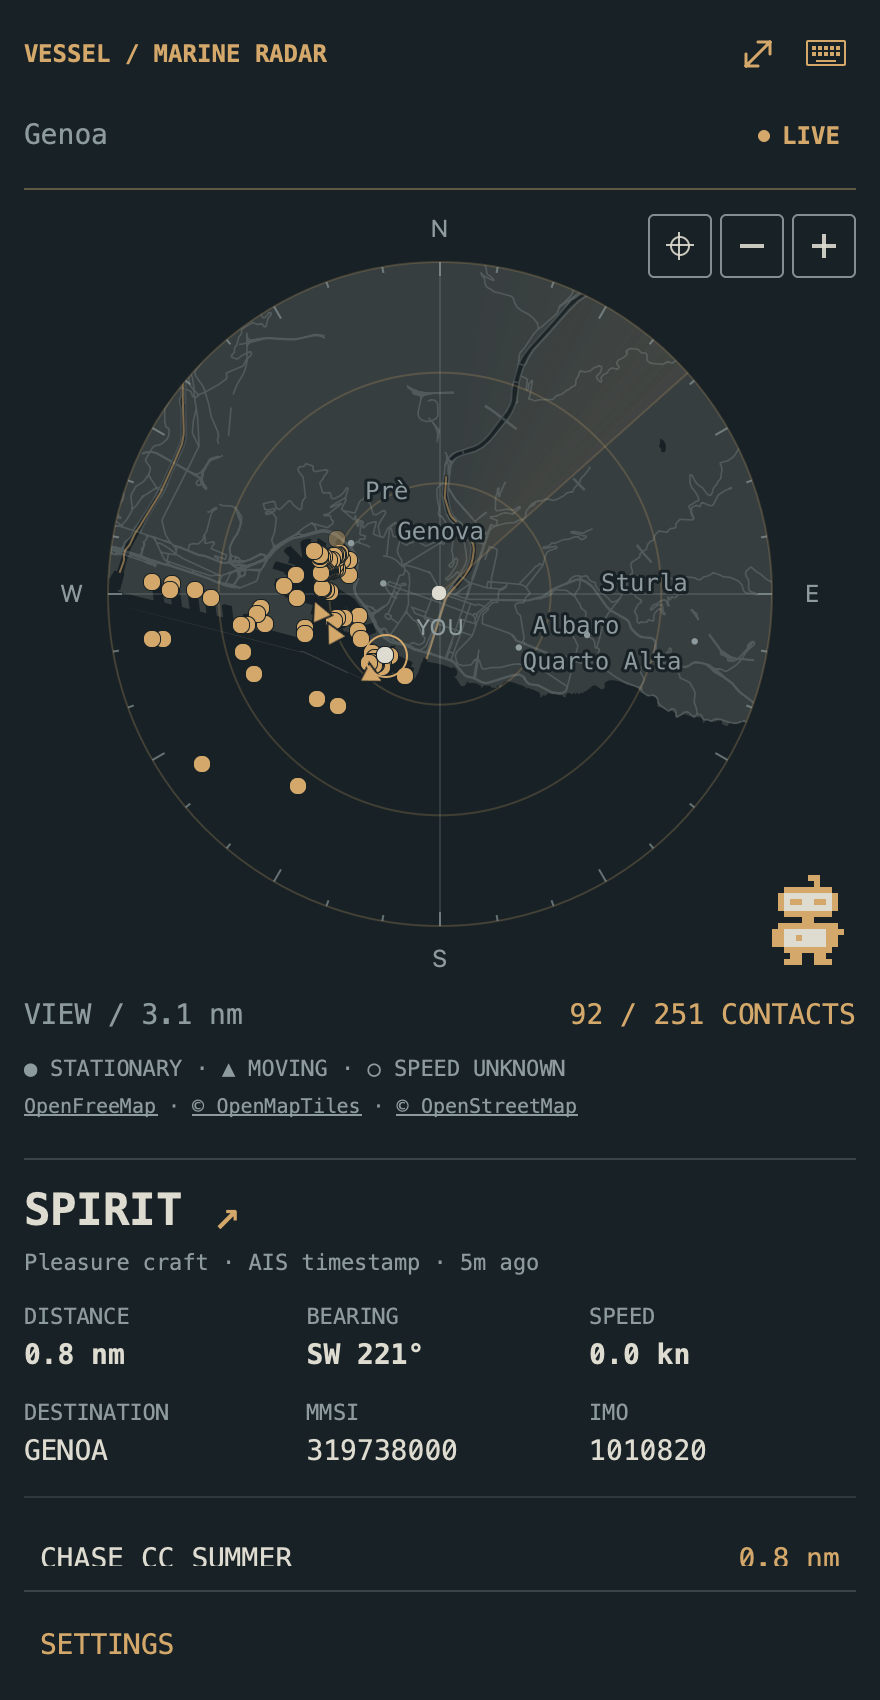
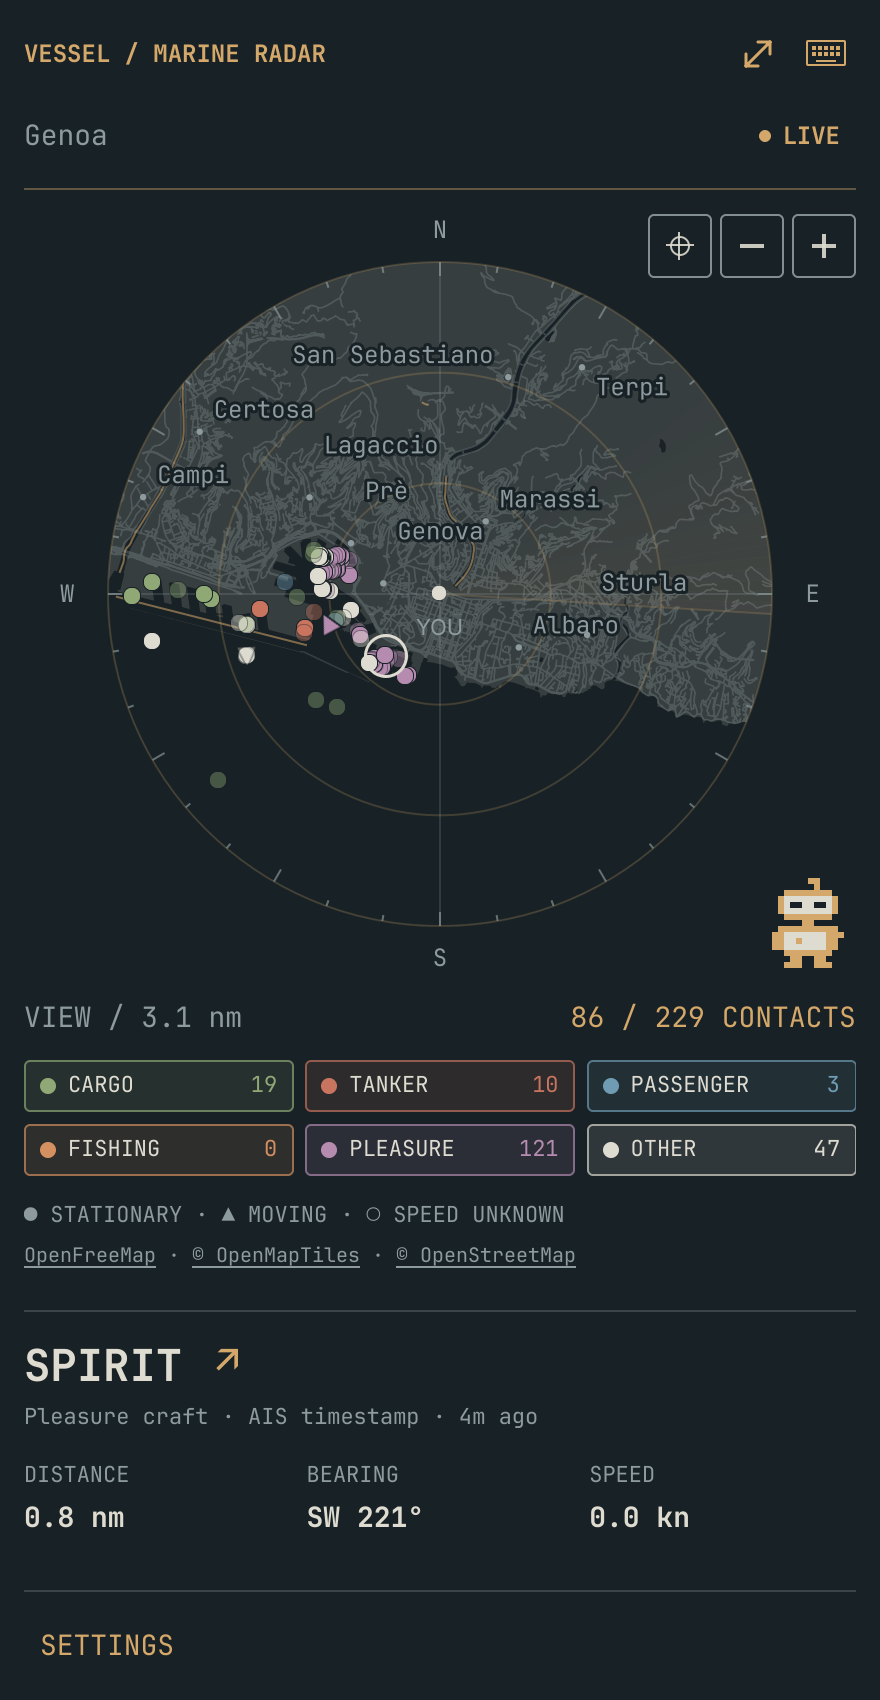
docs: refresh screenshots with type colors, filters and vessel details
Render the expanded and compact previews in both palettes from a real
OpenWaters capture around Genoa on 27 September 2026, with the detailed
OpenFreeMap chart. The layout assertions in the renderer pass.

The renderer now parenthesizes the injected report and basemap, so QML
cannot read them as code blocks, and replaces unique placeholders, so a
vessel name containing "MAP" is left intact. VESSEL_PREVIEW_FONT selects
the font on hosts without Menlo.

diff --git a/tools/render_previews.py b/tools/render_previews.py
@@ -5,6 +5,7 @@ Requires PySide6, VESSEL_PREVIEW_LIVE (receiver snapshot JSON) and
 VESSEL_PREVIEW_DETAIL (map batch JSON, Genoa / 25 nm / zoom 8 / center 0,0).
 The renderer uses local input only; it never connects or uses credentials.
 QT_QPA_PLATFORM=offscreen QT_SCALE_FACTOR=2 python3 tools/render_previews.py
+Set VESSEL_PREVIEW_FONT to render with a font other than Menlo.
 """
 
 
@@ -138,9 +139,9 @@ def main():
     service = """pragma Singleton
     import QtQuick
     Item {
-     property var report: REPORT
+     property var report: (@@REPORT@@)
      property var ships: report.ships
-     property var basemap: MAP
+     property var basemap: (@@MAP@@)
      property var preferences: ({provider:"openwaters",hasOpenwatersKey:false,unit:"nm",radiusNm:25,cityName:"Genoa",latitude:44.4056,longitude:8.9463,autoLocation:false,hasApiKey:false})
      property var mapDetail: ({available:false})
      property string completedDetail: ""
@@ -156,10 +157,14 @@ def main():
      function setViewing(v) {} function attach(s) {} function detach() {} function configure(s) {} function restart() {} function loadSettings() {}
      function clearCitySearch() {} function searchCity(t) {} function saveSettings(v) {}
      function togglePaused() {paused=!paused}
-    }""".replace("REPORT", json.dumps(report)).replace("MAP", json.dumps(geo))
+    }""".replace("@@MAP@@", json.dumps(geo)).replace("@@REPORT@@", json.dumps(report))
     (base / "VesselService.qml").write_text(service)
+    # Menlo matches the macOS harness; set VESSEL_PREVIEW_FONT for other hosts.
+    font = os.environ.get("VESSEL_PREVIEW_FONT", "Menlo")
     (base / "qs/Ui/BarWidget.qml").write_text(
-        'import QtQuick\nItem {property string moduleName; property QtObject bar: QtObject {property string fontFamily:"Menlo"}; property var settings: ({}); property bool vertical:false}'
+        "import QtQuick\nItem {property string moduleName; property QtObject bar: QtObject {property string fontFamily:"
+        + json.dumps(font)
+        + "}; property var settings: ({}); property bool vertical:false}"
     )
     (base / "Main.qml").write_text(
         'import QtQuick\nimport qs.Commons\nWindow {property var previewColors: Color; width:32;height:32;visible:true; Widget {objectName:"widget"}}'

diff --git a/README.md b/README.md
@@ -10,7 +10,7 @@ See nearby AIS-equipped vessels, their names, speed and reported destinations on
 
 ## Screenshots
 
-Real AIS traffic received from OpenWaters on 19 September 2026, with the detailed OpenFreeMap map of Genoa. These are captured snapshots; vessel positions and timestamps reflect the reports received.
+Real AIS traffic received from OpenWaters on 27 September 2026, with the detailed OpenFreeMap map of Genoa. These are captured snapshots; vessel positions and timestamps reflect the reports received.
 
 ### Dark palette
 

diff --git a/CHANGELOG.md b/CHANGELOG.md
@@ -31,6 +31,8 @@ version commit. From 0.7.1 onward, version headings link to release tags.
 
 - Add a short animated tour to the README, rendered from the widget with demo
   traffic off Genoa.
+- Refresh the README screenshots with type colors, filters and the new vessel
+  details, from real AIS traffic received on 27 September 2026.
 - Draw the selection ring in the text color, since markers now carry type colors.
 - Orient moving vessels by true heading when course over ground is unavailable.
 
